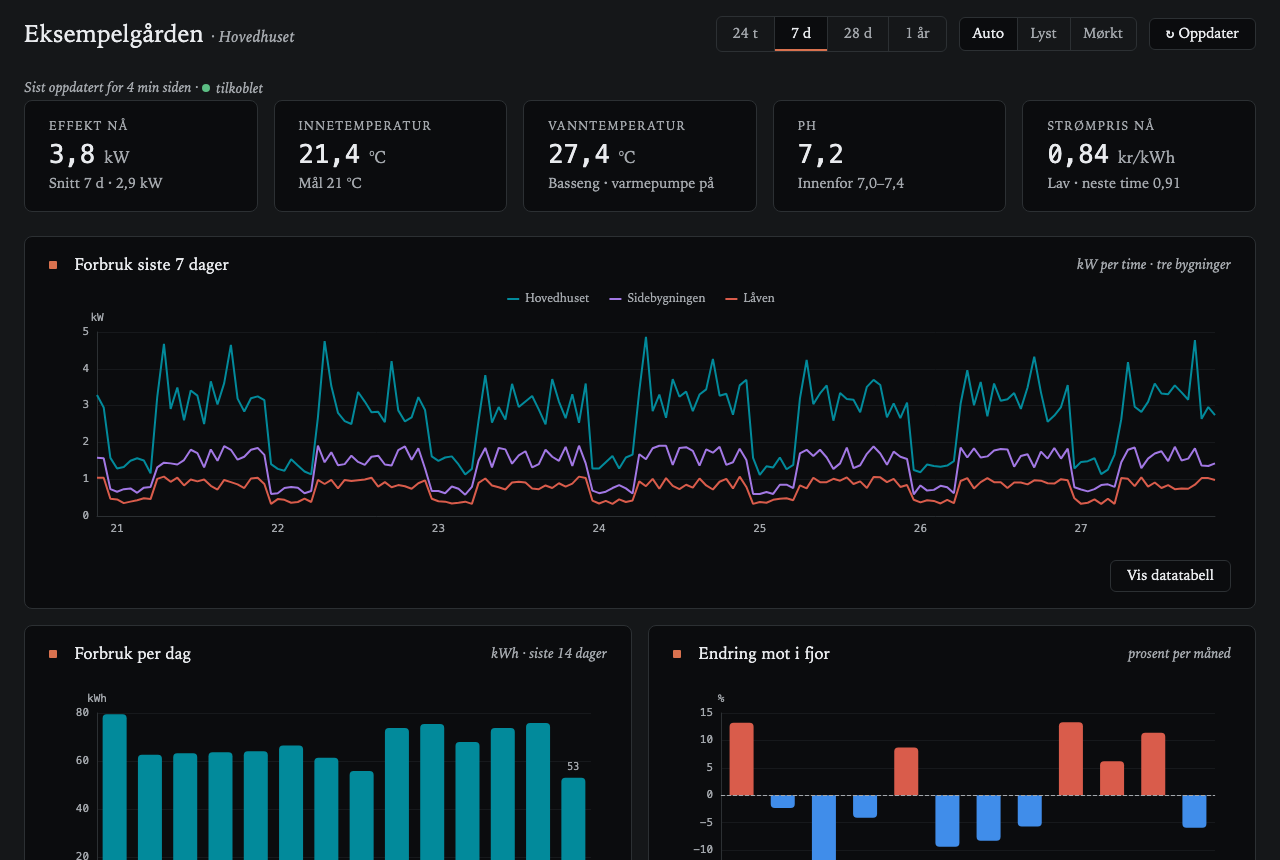
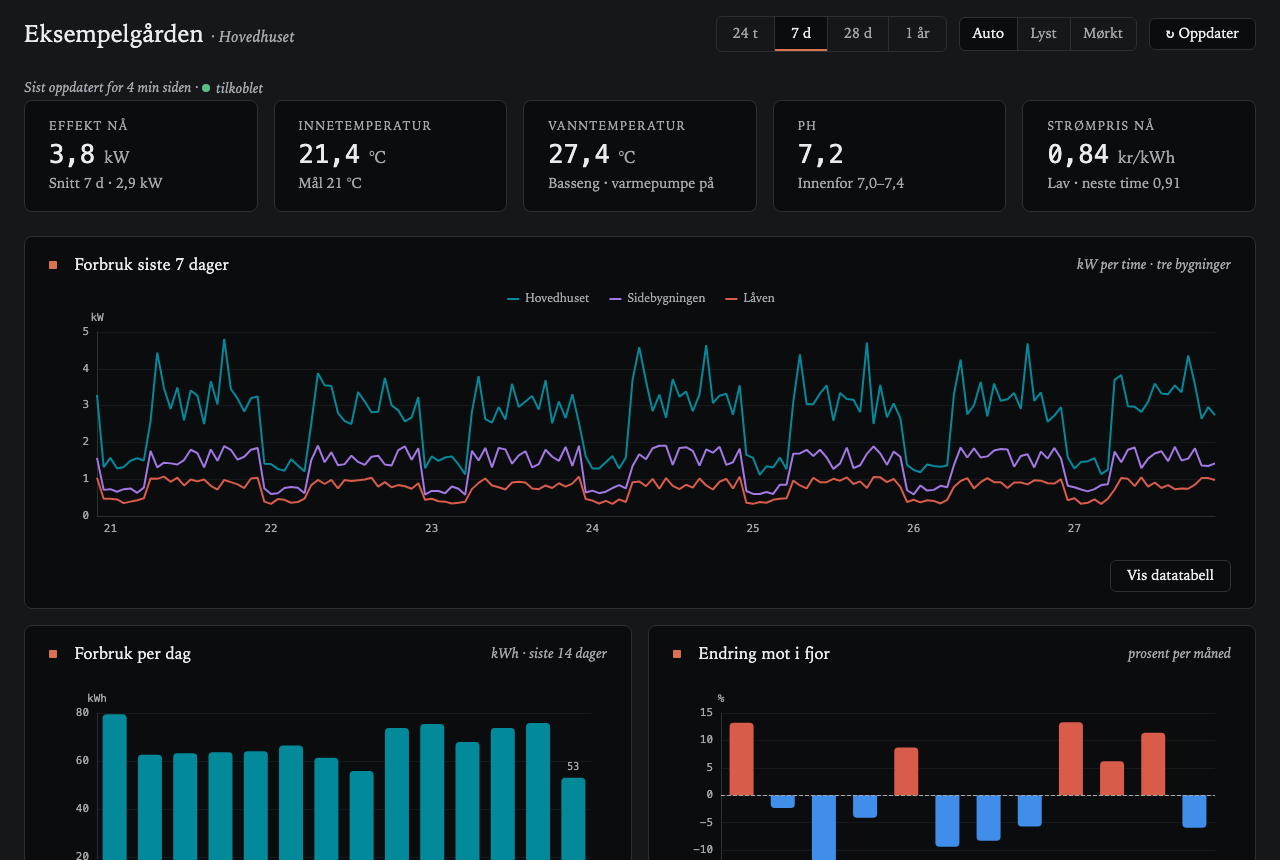
Nerdesign v1.0.4

diff --git a/site/versjoner.html b/site/versjoner.html
@@ -11,11 +11,11 @@
 <link rel="stylesheet" href="dist/vendor/photoswipe/photoswipe.min.css">
 <link rel="stylesheet" href="site.css">
 </head>
-<body data-nd-version="1.0.3">
+<body data-nd-version="1.0.4">
 <a class="nd-skip-link" href="#innhold">Hopp til innhold</a>
 <div class="site-version-banner" id="version-banner" hidden></div>
 <header class="site-header">
-  <a class="site-brand" href="index.html"><span class="site-mark" aria-hidden="true"></span>Nerdesign <small class="nd-numeric">v1.0.3</small></a>
+  <a class="site-brand" href="index.html"><span class="site-mark" aria-hidden="true"></span>Nerdesign <small class="nd-numeric">v1.0.4</small></a>
   <nav class="site-nav" aria-label="Hovedmeny">
     <a href="index.html">Om</a>
     <a href="kom-i-gang.html">Kom i gang</a>
@@ -37,27 +37,32 @@
 
 
 <section class="nd-panel" style="margin-bottom: var(--nd-space-4);">
+  <h2 style="margin-top: 0;">v1.0.4 <small class="nd-muted" style="font-size: 0.6em; font-weight: 400;">2026-10-04</small></h2>
+  <ul class="nd-list"><li>Avkrysningsbokser, rullefelt og andre skjemaelementer følger nå temaet siden viser. Før fulgte de operativsystemet når temavelgeren var satt til Lyst eller Mørkt, så et lyst tema på en mørk Mac fikk svarte avkrysningsbokser.</li><li>Versjoner-siden viser igjen punktene fra CHANGELOG. De var tomme fordi seksjonene ble lest med en regex som stoppet på første linjeskift.</li><li><code>tools/dev-server.mjs</code>: felles lokal server for prosjektene (serverer <code>public/</code> eller rota, svarer på <code>/api/config</code> fra <code>.env</code>). Erstatter to nesten like kopier.</li></ul>
+  <p class="nd-row" style="margin: 0;"><a class="nd-button" href="v1.0.4/">Se nettstedet for v1.0.4</a><a class="nd-button" href="v1.0.4/dist/nd.css">nd.css</a><a class="nd-button" href="https://github.com/nerdegutt/nerdesign/releases/tag/v1.0.4">GitHub-release</a></p>
+</section>
+<section class="nd-panel" style="margin-bottom: var(--nd-space-4);">
   <h2 style="margin-top: 0;">v1.0.3 <small class="nd-muted" style="font-size: 0.6em; font-weight: 400;">2026-08-27</small></h2>
-  <ul class="nd-list"></ul>
+  <ul class="nd-list"><li>Nytt mørkt tema: mørke fliser (<code>#0b0c0e</code>) på en litt lysere side (<code>#151719</code>), så grafene ligger på den mørkeste flaten. Nøytrale gråtoner i stedet for brune.</li><li>Ny seriepalett i mørkt tema med større avstand mellom fargene (turkis, lilla, tegl, blå, sjøgrønn, oker, rose, oliven), validert for fargesyn mot den nye flaten.</li><li>Kald, ettoners rampe for varmekart og andre mengdeframstillinger i mørkt tema.</li><li>Lysere statusfarger og aksent i mørkt tema. Lyst tema, papir og typografi er uendret.</li></ul>
   <p class="nd-row" style="margin: 0;"><a class="nd-button" href="v1.0.3/">Se nettstedet for v1.0.3</a><a class="nd-button" href="v1.0.3/dist/nd.css">nd.css</a><a class="nd-button" href="https://github.com/nerdegutt/nerdesign/releases/tag/v1.0.3">GitHub-release</a></p>
 </section>
 <section class="nd-panel" style="margin-bottom: var(--nd-space-4);">
   <h2 style="margin-top: 0;">v1.0.2 <small class="nd-muted" style="font-size: 0.6em; font-weight: 400;">2026-08-27</small></h2>
-  <ul class="nd-list"></ul>
+  <ul class="nd-list"><li><code>[hidden]</code> skjuler alltid elementet. Uten dette ble paneler med <code>display: flex</code>/<code>grid</code> (som <code>.nd-chart</code> og <code>.nd-charts</code>) stående synlige selv med <code>hidden</code> satt.</li></ul>
   <p class="nd-row" style="margin: 0;"><a class="nd-button" href="v1.0.2/">Se nettstedet for v1.0.2</a><a class="nd-button" href="v1.0.2/dist/nd.css">nd.css</a><a class="nd-button" href="https://github.com/nerdegutt/nerdesign/releases/tag/v1.0.2">GitHub-release</a></p>
 </section>
 <section class="nd-panel" style="margin-bottom: var(--nd-space-4);">
   <h2 style="margin-top: 0;">v1.0.1 <small class="nd-muted" style="font-size: 0.6em; font-weight: 400;">2026-08-27</small></h2>
-  <ul class="nd-list"></ul>
+  <ul class="nd-list"><li>Temabryteren fra <code>nd-theme.js</code> har nå stil i <code>nd.css</code> (segmentert gruppe), ikke bare på nettstedet.</li><li>Releasen inkluderer <code>vendor.zip</code> (PhotoSwipe), og <code>copy-to.sh --release</code> pakker den ut.</li><li>Nettstedet: nøktern tekst; ingen dev-merking.</li></ul>
   <p class="nd-row" style="margin: 0;"><a class="nd-button" href="v1.0.1/">Se nettstedet for v1.0.1</a><a class="nd-button" href="v1.0.1/dist/nd.css">nd.css</a><a class="nd-button" href="https://github.com/nerdegutt/nerdesign/releases/tag/v1.0.1">GitHub-release</a></p>
 </section>
 <section class="nd-panel" style="margin-bottom: var(--nd-space-4);">
   <h2 style="margin-top: 0;">v1.0.0 <small class="nd-muted" style="font-size: 0.6em; font-weight: 400;">2026-08-27</small></h2>
-  <ul class="nd-list"></ul>
+  <ul class="nd-list"><li>Tokens i to lag: lyst tema (den opprinnelige dokumentpaletten) og mørkt tema, datapaletter validert for fargesyn og kontrast i begge.</li><li>Typografi, tilgjengelighetsbase og layout-primitiver (<code>.nd-page</code>, <code>.nd-grid</code>, <code>.nd-keyfacts</code>, <code>.nd-sheet</code>, <code>.nd-label-sheet</code>).</li><li>Dokumentkomponenter: dokumenthode, nøkkelfakta, tabell, bilder og kort, galleri, merknad, kontakt, kolofon, fotnote, ark (A4/A5/fast), etiketter.</li><li>Dashboardkomponenter: toppstripe, periodevelger, knapper, nøkkeltall, graf med datatabell, status, ferskhet, skjema.</li><li><code>nd-echarts.js</code>: ECharts-tema fra tokens, option-hjelpere, <code>mount</code> med temabytte, redusert bevegelse, aria og datatabell.</li><li><code>nd-lightbox.js</code>: PhotoSwipe for alle bilder, uten endringer i markup.</li><li>Selvhostet JetBrains Mono (OFL) via <code>nd-fonts.css</code>; <code>nd-theme.js</code> for auto/lyst/mørkt.</li><li>Print: alltid lyst på hvitt; faste ark og etikettark er alltid papir, også på skjerm i mørkt tema.</li><li>Nettsted med Om, Kom i gang, Grunnlag, Komponenter, Eksempler, Tilgjengelighet og Versjoner; fire eksempler med PDF.</li></ul>
   <p class="nd-row" style="margin: 0;"><a class="nd-button" href="v1.0.0/">Se nettstedet for v1.0.0</a><a class="nd-button" href="v1.0.0/dist/nd.css">nd.css</a><a class="nd-button" href="https://github.com/nerdegutt/nerdesign/releases/tag/v1.0.0">GitHub-release</a></p>
 </section>
 </main>
-<footer class="nd-colophon">Nerdesign · et designsystem for Helgerød gård, Jeløya · v1.0.3</footer>
+<footer class="nd-colophon">Nerdesign · et designsystem for Helgerød gård, Jeløya · v1.0.4</footer>
 <script>
   // Snapshot banner: tell the reader when a newer release exists. versions.json lives at the site root.
   (async () => {

diff --git a/dist/nd.css b/dist/nd.css
@@ -1,4 +1,4 @@
-/* Nerdesign v1.0.3 – tokens, base styles and components. Copied from github.com/nerdegutt/nerdesign – do not edit here; change the source and copy again. */
+/* Nerdesign v1.0.4 – tokens, base styles and components. Copied from github.com/nerdegutt/nerdesign – do not edit here; change the source and copy again. */
 
 /* ===== tokens/primitives.css ===== */
 /* Layer 1 – primitive palette. Material names from the farm, with lightness
@@ -116,6 +116,10 @@
   --nd-shadow: 0 1px 0 rgba(43, 38, 32, 0.04), 0 8px 24px rgba(43, 38, 32, 0.08);
 }
 
+/* The toggle picked light: pin native controls to light even when the OS is
+   dark (the dark blocks set color-scheme: dark). */
+:root[data-theme="light"] { color-scheme: light; }
+
 /* ===== tokens/data.css ===== */
 /* Data-visualisation tokens, light theme. Categorical series in FIXED order
    (never cycled; a 9th series folds into «Annet»), a one-hue sequential ramp,
@@ -175,6 +179,7 @@
     /* -- tokens/semantic.dark.css -- */
     /* Dark theme – DECLARATIONS ONLY. Dark tiles on a slightly lighter page, so
        charts sit on the darkest surface and read as the content. */
+    color-scheme: dark; /* native controls (checkboxes, scrollbars) follow the dark theme */
     --nd-bg: var(--nd-ink-900);
     --nd-surface: var(--nd-ink-950);
     --nd-surface-raised: var(--nd-ink-800);
@@ -225,6 +230,7 @@
     /* -- tokens/semantic.dark.css -- */
     /* Dark theme – DECLARATIONS ONLY. Dark tiles on a slightly lighter page, so
        charts sit on the darkest surface and read as the content. */
+    color-scheme: dark; /* native controls (checkboxes, scrollbars) follow the dark theme */
     --nd-bg: var(--nd-ink-900);
     --nd-surface: var(--nd-ink-950);
     --nd-surface-raised: var(--nd-ink-800);

diff --git a/site/dist/nd.css b/site/dist/nd.css
@@ -1,4 +1,4 @@
-/* Nerdesign v1.0.3 – tokens, base styles and components. Copied from github.com/nerdegutt/nerdesign – do not edit here; change the source and copy again. */
+/* Nerdesign v1.0.4 – tokens, base styles and components. Copied from github.com/nerdegutt/nerdesign – do not edit here; change the source and copy again. */
 
 /* ===== tokens/primitives.css ===== */
 /* Layer 1 – primitive palette. Material names from the farm, with lightness
@@ -116,6 +116,10 @@
   --nd-shadow: 0 1px 0 rgba(43, 38, 32, 0.04), 0 8px 24px rgba(43, 38, 32, 0.08);
 }
 
+/* The toggle picked light: pin native controls to light even when the OS is
+   dark (the dark blocks set color-scheme: dark). */
+:root[data-theme="light"] { color-scheme: light; }
+
 /* ===== tokens/data.css ===== */
 /* Data-visualisation tokens, light theme. Categorical series in FIXED order
    (never cycled; a 9th series folds into «Annet»), a one-hue sequential ramp,
@@ -175,6 +179,7 @@
     /* -- tokens/semantic.dark.css -- */
     /* Dark theme – DECLARATIONS ONLY. Dark tiles on a slightly lighter page, so
        charts sit on the darkest surface and read as the content. */
+    color-scheme: dark; /* native controls (checkboxes, scrollbars) follow the dark theme */
     --nd-bg: var(--nd-ink-900);
     --nd-surface: var(--nd-ink-950);
     --nd-surface-raised: var(--nd-ink-800);
@@ -225,6 +230,7 @@
     /* -- tokens/semantic.dark.css -- */
     /* Dark theme – DECLARATIONS ONLY. Dark tiles on a slightly lighter page, so
        charts sit on the darkest surface and read as the content. */
+    color-scheme: dark; /* native controls (checkboxes, scrollbars) follow the dark theme */
     --nd-bg: var(--nd-ink-900);
     --nd-surface: var(--nd-ink-950);
     --nd-surface-raised: var(--nd-ink-800);

diff --git a/site/index.html b/site/index.html
@@ -11,11 +11,11 @@
 <link rel="stylesheet" href="dist/vendor/photoswipe/photoswipe.min.css">
 <link rel="stylesheet" href="site.css">
 </head>
-<body data-nd-version="1.0.3">
+<body data-nd-version="1.0.4">
 <a class="nd-skip-link" href="#innhold">Hopp til innhold</a>
 <div class="site-version-banner" id="version-banner" hidden></div>
 <header class="site-header">
-  <a class="site-brand" href="index.html"><span class="site-mark" aria-hidden="true"></span>Nerdesign <small class="nd-numeric">v1.0.3</small></a>
+  <a class="site-brand" href="index.html"><span class="site-mark" aria-hidden="true"></span>Nerdesign <small class="nd-numeric">v1.0.4</small></a>
   <nav class="site-nav" aria-label="Hovedmeny">
     <a href="index.html" aria-current="page">Om</a>
     <a href="kom-i-gang.html">Kom i gang</a>
@@ -57,7 +57,7 @@
 <p class="nd-measure">Laget for Helgerød gård på Jeløya. Prefikset på alle klasser og tokens er <code>nd-</code>. Koden er MIT-lisensiert; JetBrains Mono og PhotoSwipe følger sine egne åpne lisenser.</p>
 
 </main>
-<footer class="nd-colophon">Nerdesign · et designsystem for Helgerød gård, Jeløya · v1.0.3</footer>
+<footer class="nd-colophon">Nerdesign · et designsystem for Helgerød gård, Jeløya · v1.0.4</footer>
 <script>
   // Snapshot banner: tell the reader when a newer release exists. versions.json lives at the site root.
   (async () => {

diff --git a/site/eksempler.html b/site/eksempler.html
@@ -11,11 +11,11 @@
 <link rel="stylesheet" href="dist/vendor/photoswipe/photoswipe.min.css">
 <link rel="stylesheet" href="site.css">
 </head>
-<body data-nd-version="1.0.3">
+<body data-nd-version="1.0.4">
 <a class="nd-skip-link" href="#innhold">Hopp til innhold</a>
 <div class="site-version-banner" id="version-banner" hidden></div>
 <header class="site-header">
-  <a class="site-brand" href="index.html"><span class="site-mark" aria-hidden="true"></span>Nerdesign <small class="nd-numeric">v1.0.3</small></a>
+  <a class="site-brand" href="index.html"><span class="site-mark" aria-hidden="true"></span>Nerdesign <small class="nd-numeric">v1.0.4</small></a>
   <nav class="site-nav" aria-label="Hovedmeny">
     <a href="index.html">Om</a>
     <a href="kom-i-gang.html">Kom i gang</a>
@@ -61,7 +61,7 @@
   examples/circuit-overview.html</pre>
 
 </main>
-<footer class="nd-colophon">Nerdesign · et designsystem for Helgerød gård, Jeløya · v1.0.3</footer>
+<footer class="nd-colophon">Nerdesign · et designsystem for Helgerød gård, Jeløya · v1.0.4</footer>
 <script>
   // Snapshot banner: tell the reader when a newer release exists. versions.json lives at the site root.
   (async () => {

diff --git a/site/kom-i-gang.html b/site/kom-i-gang.html
@@ -11,11 +11,11 @@
 <link rel="stylesheet" href="dist/vendor/photoswipe/photoswipe.min.css">
 <link rel="stylesheet" href="site.css">
 </head>
-<body data-nd-version="1.0.3">
+<body data-nd-version="1.0.4">
 <a class="nd-skip-link" href="#innhold">Hopp til innhold</a>
 <div class="site-version-banner" id="version-banner" hidden></div>
 <header class="site-header">
-  <a class="site-brand" href="index.html"><span class="site-mark" aria-hidden="true"></span>Nerdesign <small class="nd-numeric">v1.0.3</small></a>
+  <a class="site-brand" href="index.html"><span class="site-mark" aria-hidden="true"></span>Nerdesign <small class="nd-numeric">v1.0.4</small></a>
   <nav class="site-nav" aria-label="Hovedmeny">
     <a href="index.html">Om</a>
     <a href="kom-i-gang.html" aria-current="page">Kom i gang</a>
@@ -115,7 +115,7 @@
 </ul>
 
 </main>
-<footer class="nd-colophon">Nerdesign · et designsystem for Helgerød gård, Jeløya · v1.0.3</footer>
+<footer class="nd-colophon">Nerdesign · et designsystem for Helgerød gård, Jeløya · v1.0.4</footer>
 <script>
   // Snapshot banner: tell the reader when a newer release exists. versions.json lives at the site root.
   (async () => {

diff --git a/site/grunnlag.html b/site/grunnlag.html
@@ -11,11 +11,11 @@
 <link rel="stylesheet" href="dist/vendor/photoswipe/photoswipe.min.css">
 <link rel="stylesheet" href="site.css">
 </head>
-<body data-nd-version="1.0.3">
+<body data-nd-version="1.0.4">
 <a class="nd-skip-link" href="#innhold">Hopp til innhold</a>
 <div class="site-version-banner" id="version-banner" hidden></div>
 <header class="site-header">
-  <a class="site-brand" href="index.html"><span class="site-mark" aria-hidden="true"></span>Nerdesign <small class="nd-numeric">v1.0.3</small></a>
+  <a class="site-brand" href="index.html"><span class="site-mark" aria-hidden="true"></span>Nerdesign <small class="nd-numeric">v1.0.4</small></a>
   <nav class="site-nav" aria-label="Hovedmeny">
     <a href="index.html">Om</a>
     <a href="kom-i-gang.html">Kom i gang</a>
@@ -105,7 +105,7 @@
 </div>
 
 </main>
-<footer class="nd-colophon">Nerdesign · et designsystem for Helgerød gård, Jeløya · v1.0.3</footer>
+<footer class="nd-colophon">Nerdesign · et designsystem for Helgerød gård, Jeløya · v1.0.4</footer>
 <script>
   // Snapshot banner: tell the reader when a newer release exists. versions.json lives at the site root.
   (async () => {

diff --git a/site/komponenter.html b/site/komponenter.html
@@ -11,11 +11,11 @@
 <link rel="stylesheet" href="dist/vendor/photoswipe/photoswipe.min.css">
 <link rel="stylesheet" href="site.css">
 </head>
-<body data-nd-version="1.0.3">
+<body data-nd-version="1.0.4">
 <a class="nd-skip-link" href="#innhold">Hopp til innhold</a>
 <div class="site-version-banner" id="version-banner" hidden></div>
 <header class="site-header">
-  <a class="site-brand" href="index.html"><span class="site-mark" aria-hidden="true"></span>Nerdesign <small class="nd-numeric">v1.0.3</small></a>
+  <a class="site-brand" href="index.html"><span class="site-mark" aria-hidden="true"></span>Nerdesign <small class="nd-numeric">v1.0.4</small></a>
   <nav class="site-nav" aria-label="Hovedmeny">
     <a href="index.html">Om</a>
     <a href="kom-i-gang.html">Kom i gang</a>
@@ -262,7 +262,7 @@
 </div>
 
 </main>
-<footer class="nd-colophon">Nerdesign · et designsystem for Helgerød gård, Jeløya · v1.0.3</footer>
+<footer class="nd-colophon">Nerdesign · et designsystem for Helgerød gård, Jeløya · v1.0.4</footer>
 <script>
   // Snapshot banner: tell the reader when a newer release exists. versions.json lives at the site root.
   (async () => {

diff --git a/site/tilgjengelighet.html b/site/tilgjengelighet.html
@@ -11,11 +11,11 @@
 <link rel="stylesheet" href="dist/vendor/photoswipe/photoswipe.min.css">
 <link rel="stylesheet" href="site.css">
 </head>
-<body data-nd-version="1.0.3">
+<body data-nd-version="1.0.4">
 <a class="nd-skip-link" href="#innhold">Hopp til innhold</a>
 <div class="site-version-banner" id="version-banner" hidden></div>
 <header class="site-header">
-  <a class="site-brand" href="index.html"><span class="site-mark" aria-hidden="true"></span>Nerdesign <small class="nd-numeric">v1.0.3</small></a>
+  <a class="site-brand" href="index.html"><span class="site-mark" aria-hidden="true"></span>Nerdesign <small class="nd-numeric">v1.0.4</small></a>
   <nav class="site-nav" aria-label="Hovedmeny">
     <a href="index.html">Om</a>
     <a href="kom-i-gang.html">Kom i gang</a>
@@ -75,7 +75,7 @@
 </table>
 
 </main>
-<footer class="nd-colophon">Nerdesign · et designsystem for Helgerød gård, Jeløya · v1.0.3</footer>
+<footer class="nd-colophon">Nerdesign · et designsystem for Helgerød gård, Jeløya · v1.0.4</footer>
 <script>
   // Snapshot banner: tell the reader when a newer release exists. versions.json lives at the site root.
   (async () => {

diff --git a/dist/nd-echarts.js b/dist/nd-echarts.js
@@ -1,4 +1,4 @@
-// Nerdesign v1.0.3 – ECharts theme and option helpers that read nd tokens at runtime. Copied from github.com/nerdegutt/nerdesign – do not edit here; change the source and copy again.
+// Nerdesign v1.0.4 – ECharts theme and option helpers that read nd tokens at runtime. Copied from github.com/nerdegutt/nerdesign – do not edit here; change the source and copy again.
 // Nerdesign × ECharts. ES module, no dependencies. Pass your `echarts` instance
 // in – this file never binds to a CDN global. Everything reads the nd- tokens
 // from the live page, so charts follow light/dark automatically.

diff --git a/site/dist/nd-echarts.js b/site/dist/nd-echarts.js
@@ -1,4 +1,4 @@
-// Nerdesign v1.0.3 – ECharts theme and option helpers that read nd tokens at runtime. Copied from github.com/nerdegutt/nerdesign – do not edit here; change the source and copy again.
+// Nerdesign v1.0.4 – ECharts theme and option helpers that read nd tokens at runtime. Copied from github.com/nerdegutt/nerdesign – do not edit here; change the source and copy again.
 // Nerdesign × ECharts. ES module, no dependencies. Pass your `echarts` instance
 // in – this file never binds to a CDN global. Everything reads the nd- tokens
 // from the live page, so charts follow light/dark automatically.

diff --git a/dist/nd-fonts.css b/dist/nd-fonts.css
@@ -1,4 +1,4 @@
-/* Nerdesign v1.0.3 – self-hosted fonts; expects ./fonts/ next to this file. Copied from github.com/nerdegutt/nerdesign – do not edit here; change the source and copy again. */
+/* Nerdesign v1.0.4 – self-hosted fonts; expects ./fonts/ next to this file. Copied from github.com/nerdegutt/nerdesign – do not edit here; change the source and copy again. */
 /* Self-hosted JetBrains Mono (SIL OFL 1.1, see fonts/LICENSE-JetBrainsMono-OFL.txt),
    subset to latin + latin-extended (æøå) + common symbols. Used for numerals
    and chart text via --nd-font-numeric. Ships separately from nd.css so
